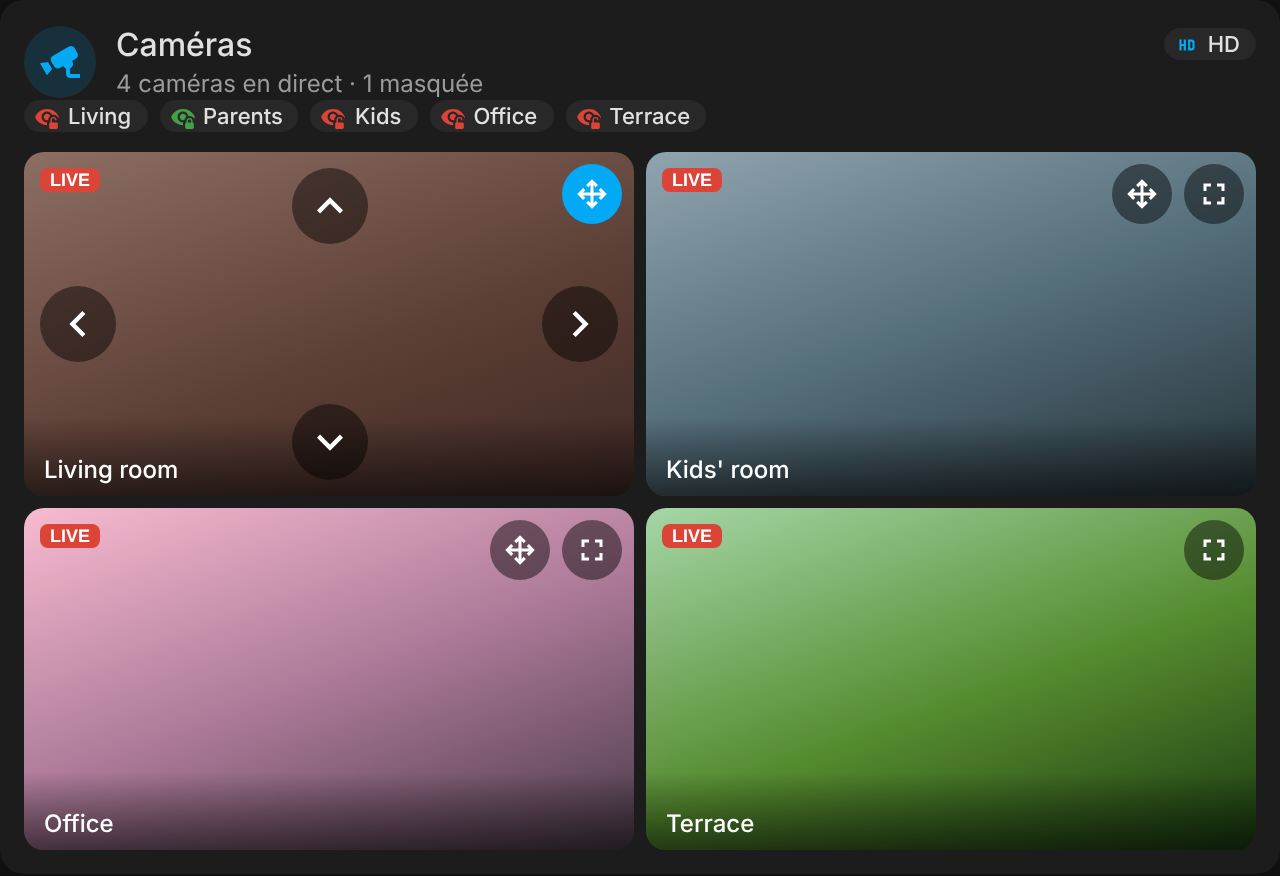
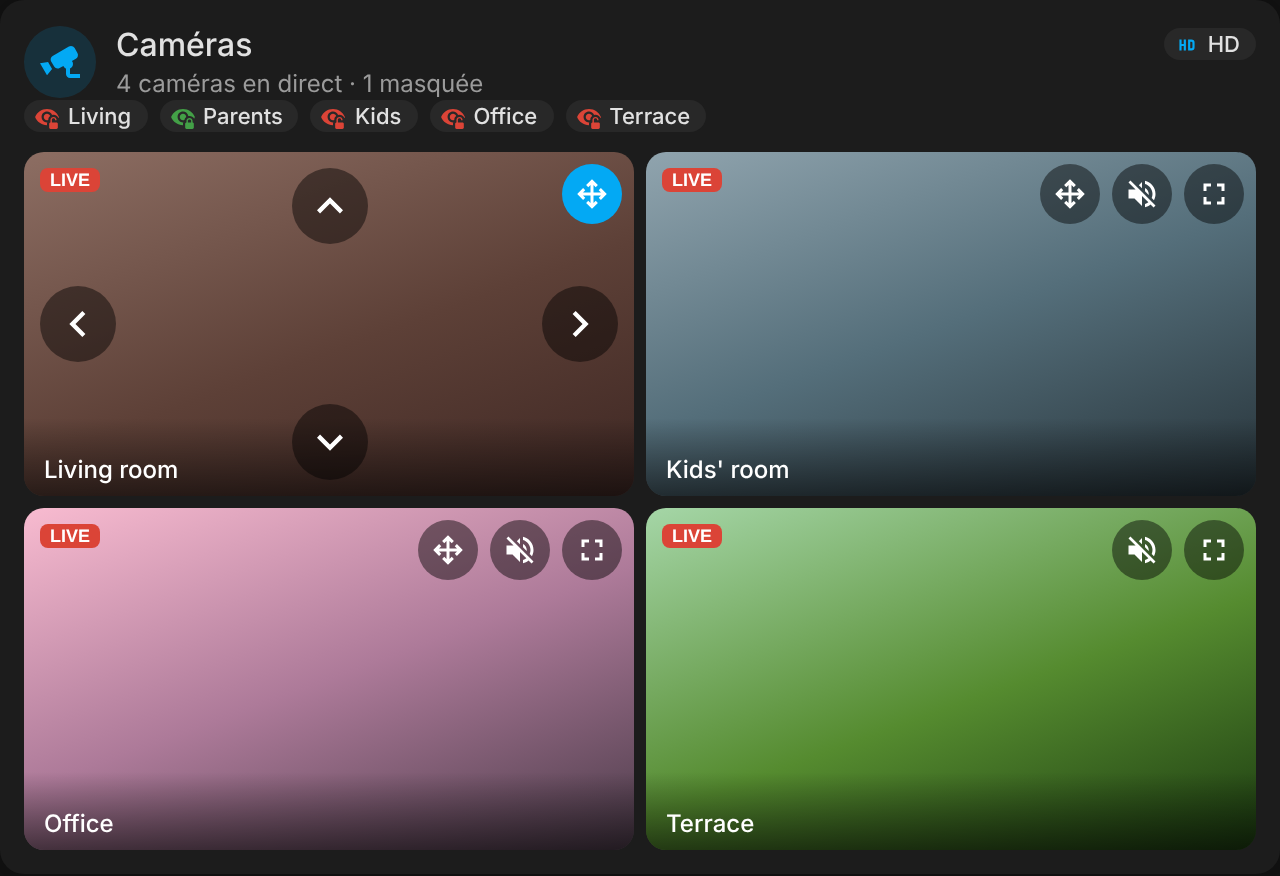
Sound button, accessible tiles and browser tests in CI
- Sound button on each tile, one camera at a time
- Tiles are labelled groups; the image is its own Open button instead of
  a button wrapping the other buttons
- hass is only given to a player that declares it (older Home Assistant)
- Browser tests run the built card in Chromium with a stand-in player:
  tile reuse, PTZ, dialog, sound, pause while hidden, duplicate cameras

Claude-Session: https://claude.ai/code/session_01BJht1x7VNww4d7EZ9aGf12

Changed region(s): [[0.3125, 0.5856, 0.4375, 0.6781], [0.8125, 0.1849, 0.9062, 0.2774], [0.8438, 0.5856, 0.9375, 0.6781]]

diff --git a/src/home-camera-card.js b/src/home-camera-card.js
@@ -21,6 +21,9 @@ const HcI18n = {
     unavailable: 'Indisponible',
     ptz: 'Orientation',
     fullscreen: 'Plein écran',
+    open: 'Ouvrir {c}',
+    sound_on: 'Activer le son',
+    sound_off: 'Couper le son',
     move_left: 'Gauche',
     move_right: 'Droite',
     move_up: 'Haut',
@@ -67,6 +70,9 @@ const HcI18n = {
     unavailable: 'Unavailable',
     ptz: 'Pan & tilt',
     fullscreen: 'Fullscreen',
+    open: 'Open {c}',
+    sound_on: 'Unmute',
+    sound_off: 'Mute',
     move_left: 'Left',
     move_right: 'Right',
     move_up: 'Up',
@@ -145,9 +151,9 @@ function hcSibling(hass, cameraId, domain, suffix) {
 }
 
 // True when an event path goes through one of the card's own controls (privacy toggle, HD/SD switch,
-// tile buttons, or a tile itself, which opens the camera).
+// tile buttons, including the one covering the image that opens the camera).
 function hcOwnControl(path) {
-  return path.some((n) => n.dataset?.toggle || n.dataset?.quality || n.dataset?.action || n.dataset?.cam);
+  return path.some((n) => n.dataset?.toggle || n.dataset?.quality || n.dataset?.action);
 }
 
 // "16:9", "4/3" or 1.5 as a width / height ratio; 16:9 when missing or invalid.
@@ -488,11 +494,12 @@ class HomeCameraCard extends HTMLElement {
   _tile() {
     const tile = document.createElement('div');
     tile.className = 'tile';
-    tile.tabIndex = 0;
-    tile.setAttribute('role', 'button');
+    // A group of controls; the image itself is a button (.open) under the other buttons, never around them.
+    tile.setAttribute('role', 'group');
     tile.innerHTML =
       '<div class="na"><ha-icon icon="mdi:cctv-off"></ha-icon><span></span></div>' +
-      '<div class="label"></div><div class="tools"></div><div class="pad"></div>';
+      '<div class="label"></div><span class="open" data-action="open" role="button" tabindex="0"></span>' +
+      '<div class="tools"></div><div class="pad"></div>';
     const stream = document.createElement('ha-camera-stream');
     stream.muted = true;
     stream.fitMode = 'cover';
@@ -507,7 +514,10 @@ class HomeCameraCard extends HTMLElement {
   _fillTile(tile, cam, hd) {
     tile._entity = hd || !cam.sd ? cam.camera : cam.sd;
     tile.dataset.cam = cam.key;
-    tile.title = cam.name;
+    tile.setAttribute('aria-label', cam.name);
+    const open = tile.querySelector('.open');
+    open.title = cam.name;
+    open.setAttribute('aria-label', this._t('open', { c: cam.name }));
     tile.querySelector('.label').textContent = cam.name;
     tile.querySelector('.na span').textContent = this._t('unavailable');
     if (!this._fullscreen(tile)) tile._stream.aspectRatio = hcRatio(this._config.aspect_ratio);
@@ -520,8 +530,11 @@ class HomeCameraCard extends HTMLElement {
       `<ha-icon icon="${icon}"></ha-icon></span>`;
     let tools = '';
     if (cam.ptz) tools += btn('ptz', 'data-action="ptz"', 'mdi:arrow-all', this._t('ptz'));
+    tools += btn('sound', 'data-action="sound"', 'mdi:volume-off', this._t('sound_on'));
     tools += btn('full', 'data-action="fullscreen"', 'mdi:fullscreen', this._t('fullscreen'));
     tile.querySelector('.tools').innerHTML = tools;
+    this._soundIcon(tile);
+    this._fullscreenChanged(tile);
     tile.querySelector('.pad').innerHTML = cam.ptz
       ? HC_PTZ_DIRS.filter((d) => cam.ptz[d])
           .map((d) =>
@@ -547,8 +560,9 @@ class HomeCameraCard extends HTMLElement {
       const ok = !!st && st.state !== 'unavailable';
       tile.classList.toggle('off', !ok);
       const stream = tile._stream;
-      // Older Home Assistant versions take hass, newer ones read it from the page: both are harmless.
-      stream.hass = this._hass;
+      // Older Home Assistant versions take hass; newer ones read it from the page (Lit context) and
+      // do not declare it, so it is only given to a player that asks for it.
+      if (stream.constructor.elementProperties?.has?.('hass')) stream.hass = this._hass;
       const obj = ok && !paused ? st : undefined;
       if (stream.stateObj !== obj) stream.stateObj = obj;
       for (const b of tile.querySelectorAll('.move')) {
@@ -578,6 +592,29 @@ class HomeCameraCard extends HTMLElement {
     // No element fullscreen (iPhone): Home Assistant's camera dialog instead.
     if (request) request.call(tile)?.catch?.(() => this._moreInfo(tile._entity));
     else this._moreInfo(tile._entity);
+  }
+
+  // Sound on one camera at a time: unmuting a tile mutes the others.
+  _toggleSound(tile) {
+    const on = tile._stream.muted;
+    for (const t of this._tiles?.values() || []) {
+      if (t === tile || t._stream.muted) continue;
+      t._stream.muted = true;
+      this._soundIcon(t);
+    }
+    tile._stream.muted = !on;
+    this._soundIcon(tile);
+  }
+
+  _soundIcon(tile) {
+    const b = tile.querySelector('.sound');
+    if (!b) return;
+    const on = !tile._stream.muted;
+    const label = this._t(on ? 'sound_off' : 'sound_on');
+    b.classList.toggle('on', on);
+    b.title = label;
+    b.setAttribute('aria-label', label);
+    b.querySelector('ha-icon').setAttribute('icon', on ? 'mdi:volume-high' : 'mdi:volume-off');
   }
 
   _moreInfo(entityId) {
@@ -613,10 +650,12 @@ class HomeCameraCard extends HTMLElement {
       '.chip.exposed ha-icon { color: var(--hc-off); }' +
       '.view:empty { display: none; }' +
       '.grid { display: grid; gap: 6px; }' +
-      '.tile { position: relative; aspect-ratio: var(--hc-ratio, 1.7778); border-radius: 10px; overflow: hidden; background: #000; cursor: pointer; outline: none; }' +
-      '.tile:focus-visible { box-shadow: 0 0 0 2px var(--primary-color, #03a9f4); }' +
+      '.tile { position: relative; aspect-ratio: var(--hc-ratio, 1.7778); border-radius: 10px; overflow: hidden; background: #000; }' +
+      '.open { position: absolute; inset: 0; cursor: pointer; outline: none; border-radius: inherit; -webkit-tap-highlight-color: transparent; }' +
+      '.open:focus-visible { box-shadow: inset 0 0 0 2px var(--primary-color, #03a9f4); }' +
+      '.tile:fullscreen .open { cursor: default; }' +
       '.tile ha-camera-stream { display: block; width: 100%; height: 100%; --video-max-height: 100%; }' +
-      '.tile:fullscreen { display: flex; align-items: center; justify-content: center; border-radius: 0; cursor: default; }' +
+      '.tile:fullscreen { display: flex; align-items: center; justify-content: center; border-radius: 0; }' +
       '.tile:fullscreen ha-camera-stream { --video-max-height: 100vh; }' +
       '.tile.off ha-camera-stream { display: none; }' +
       '.na { position: absolute; inset: 0; display: none; flex-direction: column; align-items: center; justify-content: center; gap: 6px; font-size: 12px;' +
@@ -630,9 +669,9 @@ class HomeCameraCard extends HTMLElement {
       '.btn:hover { background: rgba(0,0,0,0.65); }' +
       '.btn:focus-visible { outline: 2px solid var(--primary-color, #03a9f4); }' +
       '.btn ha-icon { --mdc-icon-size: 18px; }' +
-      '.tile.ptz-open .btn.ptz { background: var(--primary-color, #03a9f4); }' +
-      // Narrow tiles: the up arrow would run into the fullscreen button.
-      '.tile.ptz-open .btn.full { display: none; }' +
+      '.tile.ptz-open .btn.ptz, .btn.sound.on { background: var(--primary-color, #03a9f4); }' +
+      // Narrow tiles: the up arrow would run into the other buttons.
+      '.tile.ptz-open .btn.full, .tile.ptz-open .btn.sound { display: none; }' +
       '.pad { display: none; }' +
       '.tile.ptz-open .pad { display: block; }' +
       '.move { position: absolute; width: 38px; height: 38px; }' +
@@ -663,6 +702,7 @@ class HomeCameraCard extends HTMLElement {
     if (!tile) return;
     const action = path.find((n) => n.dataset?.action)?.dataset.action;
     if (action === 'ptz') tile.classList.toggle('ptz-open');
+    else if (action === 'sound') this._toggleSound(tile);
     else if (action === 'fullscreen') this._toggleFullscreen(tile);
     else if (action === 'move') {
       const btn = path.find((n) => n.dataset?.action);

diff --git a/README.md b/README.md
@@ -25,6 +25,7 @@ List the cameras, the card finds their privacy switch, SD stream and PTZ buttons
 - **HD / SD** switch: from an `input_select` shared by every dashboard, or from the card itself (remembered by the browser)
 - Live grid on Home Assistant's own player: WebRTC through go2rtc when available, else HLS or MJPEG — no other card to install
 - Tap a camera to open Home Assistant's camera dialog; a **fullscreen** button on every tile
+- **Sound** button on every tile, for one camera at a time (the grid starts muted)
 - **PTZ**: a button on the tile shows four arrows over the image; arrows whose button is unavailable are greyed out
 - Hiding or showing a camera, or switching HD / SD, never reloads the streams of the other cameras
 - Streams stop while the page is hidden (other tab, phone locked) and resume when it comes back
@@ -155,6 +156,8 @@ Discovery looks at the entities of the camera's device in the entity registry. A
 npm install
 npm run build        # stamps the version of package.json into dist/home-camera-card.js
 npm run check        # builds and checks the card (run in CI)
+npm test             # unit tests
+npm run test:browser # builds the card and runs it in Chromium with a stand-in player (run in CI)
 npm run screenshots  # renders the card with mock cameras into screenshots/
 ```
 

diff --git a/CHANGELOG.md b/CHANGELOG.md
@@ -10,6 +10,7 @@ Advanced Camera Card is no longer used: the card plays the cameras itself with H
 ### What's new
 - Every tile plays with Home Assistant's camera player: WebRTC through go2rtc when available, else HLS or MJPEG, as in the built-in cards. Nothing else to install.
 - Tap a camera to open Home Assistant's camera dialog; a fullscreen button on each tile.
+- Sound button on each tile, for one camera at a time; the grid starts muted.
 - PTZ: a button on the tile shows four arrows over the image; arrows whose button is unavailable are greyed out. A tap on the image closes them.
 - Unavailable cameras show *Unavailable* in their tile.
 - `aspect_ratio` option (default `16:9`), also in the visual editor.
@@ -17,6 +18,10 @@ Advanced Camera Card is no longer used: the card plays the cameras itself with H
 ### Changes
 - Hiding or showing a camera, or switching HD / SD, no longer reloads the streams of the other cameras.
 - Streams stop while the page is hidden (other tab, phone locked) and resume when it comes back.
+- Accessibility: each tile is a labelled group, and the image is its own *Open* button instead of a button wrapping the others.
+
+### Maintenance
+- Browser tests (`npm run test:browser`) run the built card in Chromium in CI. Nothing changes for users.
 
 ## 2.1.1
 
